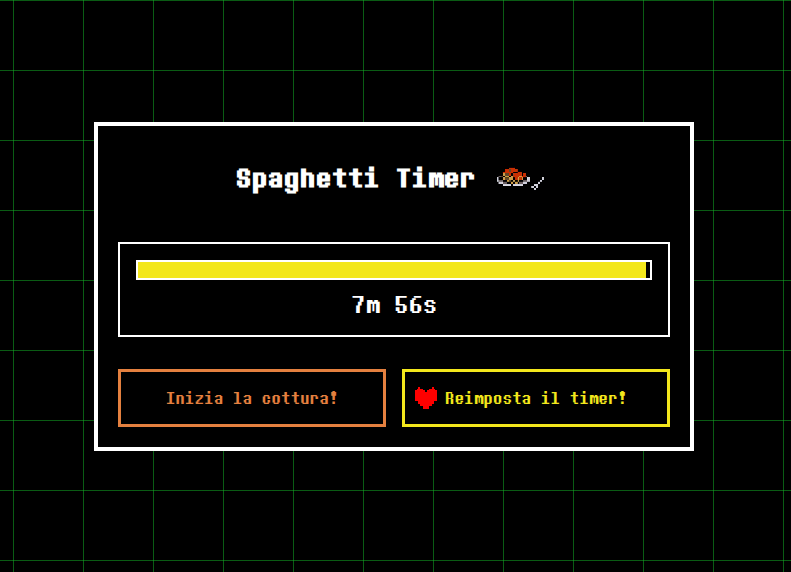
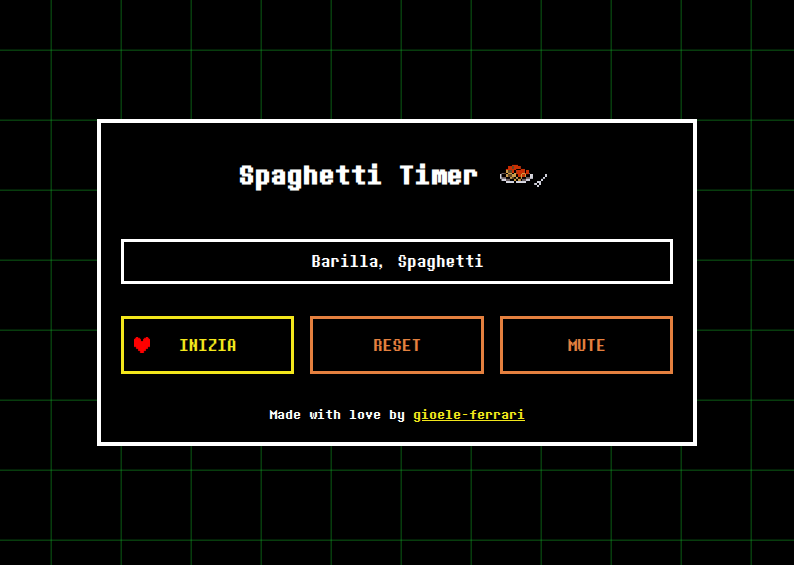
added mute and unmute

diff --git a/style.css b/style.css
@@ -22,17 +22,17 @@ body {
       linear-gradient(to right, #14b828, transparent 1px),
       linear-gradient(to bottom, #14b828, transparent 1px);
     background-size: 70px 70px;
-    animation: move-grid 8s linear infinite;
-    image-rendering: pixelated;
+    background-position: 0 0;
+    animation: move-grid 5s linear infinite;
     overflow: hidden;
 }
-  
+
 @keyframes move-grid {
     0% {
-      background-position: 0 0;
+        background-position: 0 0;
     }
     100% {
-      background-position: 100px 0;
+        background-position: 70px 70px;
     }
 }
   
@@ -79,6 +79,7 @@ body {
     background-color: black;
     margin-bottom: 10px;
     position: relative;
+    background-color: #f60804;
 }
   
 #timer-bar {
@@ -132,8 +133,8 @@ body {
     left: -25px;
     top: 50%;
     transform: translateY(-50%);
-    width: 22px;
-    height: 22px;
+    width: 16px;
+    height: 16px;
     background-image: url('./src/images/heart.png');
     background-size: contain;
     background-repeat: no-repeat;
@@ -144,6 +145,18 @@ body {
 .button-container button:hover::after {
     left: 10px;
     opacity: 1;
+}
+
+footer {
+    width: 100%;
+    height: 25px;
+    position: absolute;
+    bottom: 0px;
+    text-align: center;
+}
+
+.highlight {
+    color: #f3e71c;
 }
   
 select {

diff --git a/index.html b/index.html
@@ -11,6 +11,7 @@
       content="default-src 'self'; script-src 'self'"
     />
     <meta name="viewport" content="width=device-width, initial-scale=1.0" />
+    <link href="https://fonts.googleapis.com/css2?family=Material+Symbols+Outlined" rel="stylesheet" />
     <link rel="stylesheet" href="style.css">
     <title>Pasta Timer</title>
   </head>
@@ -28,13 +29,23 @@
         <span id="timer-text">Inizio timer...</span>
       </div>
       <div class="button-container">
-        <button id="start-timer">Inizia la cottura!</button>
-        <button id="reset-timer">Reimposta il timer!</button>
-      </div>  
+        <button id="start-timer">
+          INIZIA
+        </button>        
+        <button id="reset-timer">
+          RESET
+        </button>
+        <button id="audio-mute">
+          MUTE
+        </button>
+      </div>
+      <p>      
+        Made with love by <a href="https://github.com/gioele-ferrari" class="highlight">gioele-ferrari</a>
+      </p>      
     </div>
-
     <audio src="./src/sounds/background_music.mp3" id="pasta-audio"></audio>
     <script src="./src/scripts/timer.js"></script>
     <script src="./src/scripts/pasta.js"></script>
+    <script src="./src/scripts/audio.js"></script>
   </body>
 </html>

diff --git a/src/scripts/timer.js b/src/scripts/timer.js
@@ -24,7 +24,6 @@ document.getElementById("start-timer").addEventListener("click", () => {
         let seconds = Math.floor((distance % (1000 * 60)) / 1000);
         timerText.textContent = `${minutes}m ${seconds.toString().padStart(2, '0')}s`;
 
-        // aggiorna la barra
         const percent = (distance / totalDuration) * 100;
         timerBar.style.width = `${percent}%`;
 
@@ -36,6 +35,8 @@ document.getElementById("start-timer").addEventListener("click", () => {
 
             pasta_audio_dom.pause();
             pasta_audio_dom.currentTime = 0;
+
+            
         }
 
         if (reset_timer) {

diff --git a/src/scripts/audio.js b/src/scripts/audio.js
@@ -1,0 +1,14 @@
+var pasta_audio_dom = document.getElementById("pasta-audio");
+var audio_mute_dom = document.getElementById("audio-mute");
+
+document.getElementById("audio-mute").addEventListener("click", () => {
+    
+    pasta_audio_dom.muted = !pasta_audio_dom.muted;
+
+    if(pasta_audio_dom.muted) {
+        audio_mute_dom.textContent = "UNMUTE";
+    }
+    else {
+        audio_mute_dom.textContent = "MUTE";
+    }
+})
